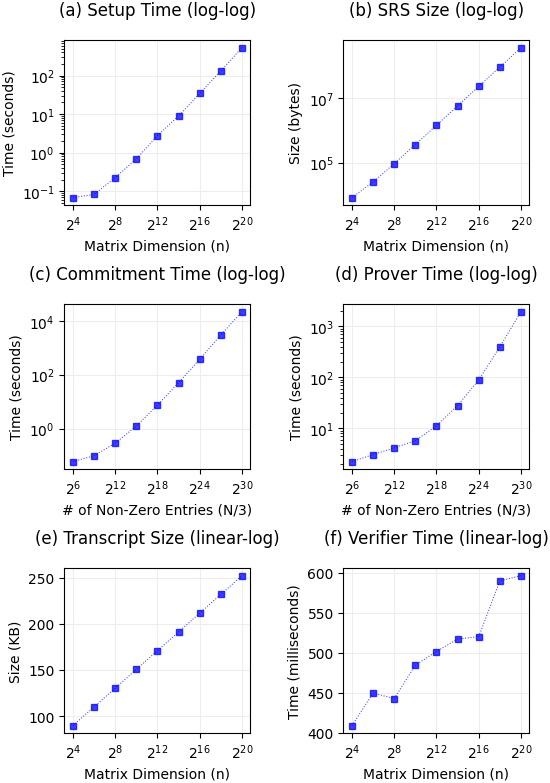
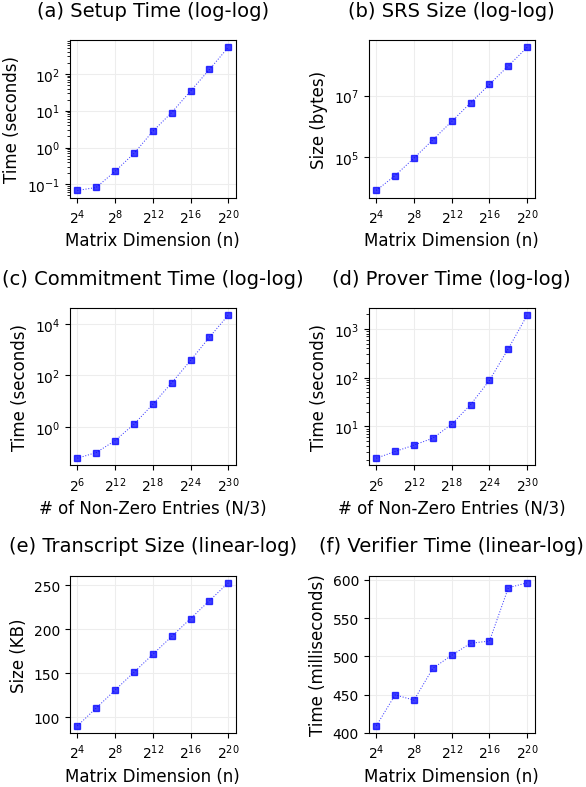
wip

Changed region(s): [[0.0, 0.0, 1.0, 1.0]]

diff --git a/python/fig1_reshape.py b/python/fig1_reshape.py
@@ -10,9 +10,9 @@ PIC_NAME = 'fig1_double.png'
 INPUT_NAME = 'metric_csv.csv'
 
 FIG_SIZE_SINGLE_COLUMN = (8, 4)
-LABEL_SIZE_SINGLE_COLUMN = 10
+LABEL_SIZE_SINGLE_COLUMN = 12
 # TITLE_SIZE_SINGLE_COLUMN = 16
-TITLE_SIZE_SINGLE_COLUMN = 12
+TITLE_SIZE_SINGLE_COLUMN = 14
 
 # FIG_SIZE_DOUBLE_COLUMN = (16, 4)
 # LABEL_SIZE_DOUBLE_COLUMN = 10
@@ -78,10 +78,10 @@ def plot_scatter():
     x_capital_tick_label = [capital_n_label[i] for i in range(0, len(n_label), 2)]
     x_capital_tick = [capital_n_series[i] for i in range(0, len(n_series), 2)]
 
-    fig = plt.figure(figsize=(6,9))
+    fig = plt.figure(figsize=(6.,9))
     gs = gridspec.GridSpec(
         3, 2, 
-        width_ratios=(1.,1.), wspace=0.5, hspace=0.6) 
+        width_ratios=(1.,1.), wspace=0.8, hspace=0.7) 
 
     ax1 = plt.subplot(gs[0])
     ax2 = plt.subplot(gs[1])
